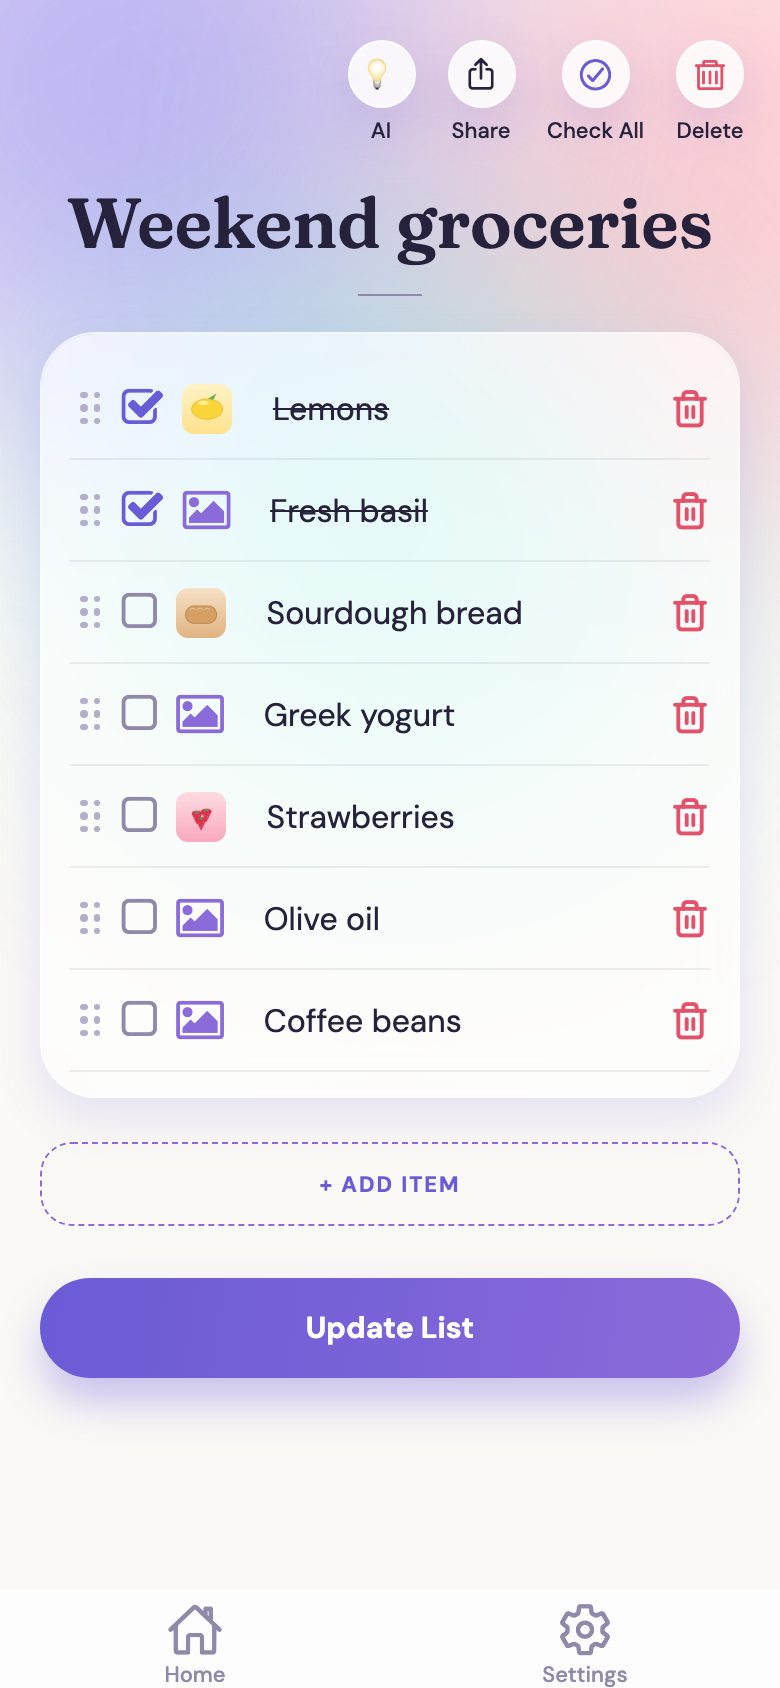
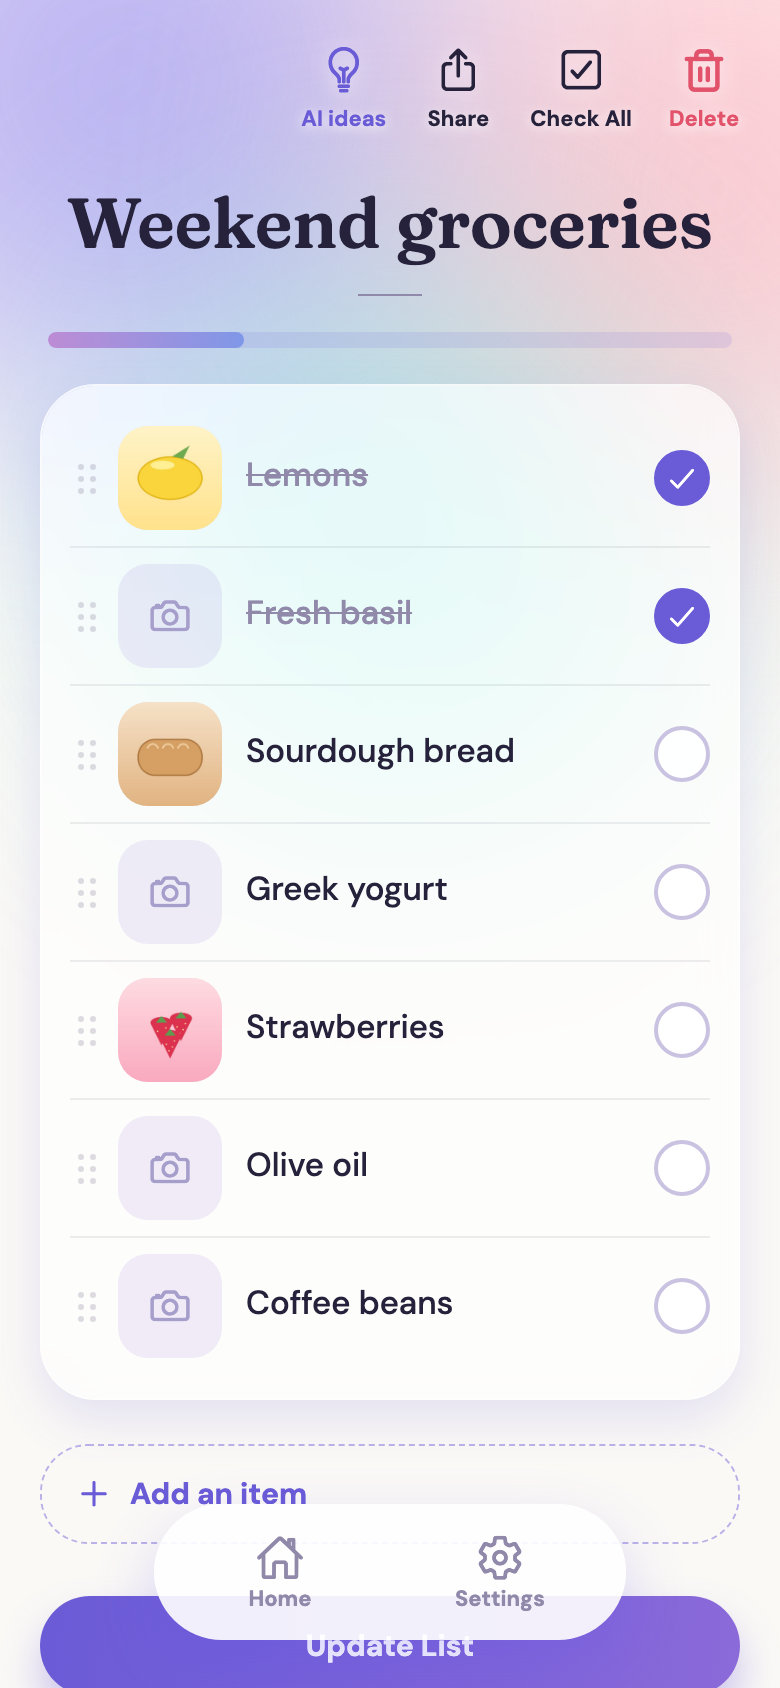
Update the README and screenshots for the refreshed list and loading design
WHY
The previous commit changed how Lista looks and behaves (photo-first rows,
a floating bottom bar, swipe to delete with Undo, pages that show only the
three dots until they are ready). The README and its screenshots still
described the old look, so they would have been wrong on the public page.

WHAT CHANGED
- README.md and docs/features.md: the feature table and the Lista 1 /
  Lista 2 comparison now say that Logout lives only in Settings, that every
  list has a progress bar, that one item is deleted with a swipe and an
  Undo message (on a computer: trackpad swipe or the trash on hover), that
  pages show the three dots until they are ready and offer Try again when
  they cannot load, and that rows put the photo first with the checkbox on
  the right. Each row keeps its Lista 1 / improved / new label.
- docs/design-and-messages.md and docs/architecture.md: the new
  components (PageLoader, FloatingTabBar, SwipeRow, AutoGrowInput) and the
  background thumbnails are described.
- docs/screenshots: retaken from the production build with local demo data
  (home, list, AI ideas, sharing, picture viewer, settings, desktop view),
  plus two new ones for swiping a row and the Undo message. An unused one
  was not kept.

CHECKS RUN
- Every relative link and image in the README and the docs pages resolves.
- Every screenshot in docs/screenshots is used by the documentation.
- This commit changes only README.md, files under docs/ (no code).

diff --git a/docs/features.md b/docs/features.md
@@ -11,11 +11,13 @@
 | ✍ | **Create and save lists** | ✅ | A title and as many items as you like, saved to your account |
 | ☑ | **Tick items off** | ✅ | Mark items as done |
 | ☑ | **Check All / Uncheck All** | 🆕 | Tick or clear a whole list in one tap, so a list is easy to reuse |
-| 🏠 | **Home with your lists** | ✅ | Your lists, a "Hello, <username>" greeting and a Logout button |
-| 📊 | **Progress on every list** | 🆕 | A badge (`2/7`) and a colored bar on each list card |
-| 🗑 | **Update and delete lists** | ⬆ | Deleted lists are only hidden. Now Lista asks first and warns when the list is shared |
+| 🏠 | **Home with your lists** | 🔁 | Your lists and a "Hello, <username>" greeting. Logout now lives in Settings only |
+| 📊 | **Progress on every list** | 🆕 | A badge (`2/7`) and a colored bar on each Home card, and a progress bar at the top of every list |
+| 🗑 | **Update and delete lists** | ⬆ | Deleted lists are only hidden. Now Lista asks first and warns when the list is shared. Deleting one item is a swipe, with Undo |
 | 🖼 | **Pictures on any row** | ⬆ | Attach a picture and open it. Now with swipe, replace and remove, safe all-or-nothing saving, and photos shrunk before upload |
-| ↕ | **Drag rows into order** | 🆕 | Six-dot handle; the row's picture moves with it. Press Enter to add a row |
+| ↕ | **Drag rows into order** | 🆕 | A faint six-dot handle; the row's picture moves with it. Press Enter to add a row |
+| 👈 | **Swipe a row to delete it, with Undo** | 🆕 | Swipe left and tap Delete; "Item deleted · Undo" brings it back, with its picture, for 5 seconds. On a computer: trackpad swipe or the trash that appears on hover |
+| ⏳ | **A page appears only when it is ready** | 🆕 | Three dots while a page loads, then the complete page; if it cannot load, a clear message and Try again |
 | 🤝 | **Share with permissions** | ⬆ | Read-Only or Full Access. Now several people at once, grouped by permission, enforced by the server, with truly view-only lists |
 | 💡 | **AI ideas** | ⬆ | Suggestions for your list. Now from Google Gemini, with tick-and-add, "New ideas" and friendly error states |
 | 🎨 | **Backgrounds** | ⬆ | Photos saved per person. Now also gradients and your own picture, on every page after you log in and scaled to any screen |
@@ -26,7 +28,7 @@
 | 📱 | **Phone, tablet and desktop** | ⬆ | Adapts to every size, including landscape and iPhone, and can be added to the home screen with its own icon |
 | 💬 | **Messages after every action** | ⬆ | Short, specific messages that say what happened and what to do next |
 | 🫙 | **Empty-list messages** | 🆕 | A friendly "No items yet" on Home, in the list and in the AI box |
-| ✨ | **Look and feel** | 🆕 | A complete redesign: soft gradients, frosted-glass cards and a gentle loading animation |
+| ✨ | **Look and feel** | 🆕 | A complete redesign: soft gradients, frosted-glass cards, photo-first rows and a floating bottom bar |
 
 ## Lista 1 compared with Lista 2
 
@@ -36,10 +38,15 @@ Lista 2 keeps all of that and improves how it looks, feels and behaves.
 | Area | Lista 1 | Lista 2 |
 |------|---------|---------|
 | **Look and feel** | Simple screens | A complete redesign: soft gradients, frosted-glass cards, elegant typography and a gentle loading animation |
-| **Home** | Each list shows its title and its first items | Cards with a progress badge and bar for every list |
+| **Home** | Each list shows its title and its first items; a Logout button beside the greeting | Cards with a progress badge and bar for every list; Logout only in Settings |
+| **Loading** | A small loader on an empty page, then everything pops in | Only the three dots until the whole page is ready, then the complete page; a clear message and **Try again** if it cannot load |
+| **List rows** | Handle, checkbox and trash on every row, text in one line that could slide sideways | Photo first, text that wraps inside the row, the checkbox on the right, a faint handle, all in one soft card; a progress bar on top |
+| **Deleting one item** | A trash button on every row | **Swipe left** and tap Delete, with an **Undo** message for 5 seconds (no question asked); on a computer, a two-finger swipe or the trash on hover |
+| **Bottom bar** | A full-width white strip | A floating pill with a soft highlight on the current tab |
+| **Text fields** | The browser's blue box when focused | A soft violet frame with a faint halo |
 | **Ticking items** | Tick one by one | Also **Check All / Uncheck All** |
 | **Pictures** | Attach a picture and view it larger | A viewer with swipe, replace and remove; pictures saved together with the list in one safe step; large photos shrunk before upload; a row can hold just a picture |
-| **Arranging rows** | Type in order | **Drag rows** by a handle, or press Enter to add a row |
+| **Arranging rows** | Type in order | **Drag rows** by a faint handle, or press Enter to add a row |
 | **Sharing** | One email at a time | **Several people at once**, grouped by permission, with clear messages for people who are not on Lista yet; Read-Only lists are truly view-only |
 | **Deleting** | Deleted straight away | Asks first, and warns when the list is shared |
 | **Messages** | General notices | Short, specific messages after every action that say what happened and what to do next |
@@ -56,13 +63,15 @@ Lista 2 keeps all of that and improves how it looks, feels and behaves.
 ### ✍ Create, save and reuse your lists
 - Make a list in seconds: a title and as many items as you like. Everything is saved to your account, so your lists are there on every device.  
 - **Tick items off** as you go, or use **Check All / Uncheck All**. Uncheck everything to reuse a list next week.  
-- **Home shows progress at a glance**: every list is a card with a badge (`2/7`) and a colored bar.  
+- **Progress at a glance**: every list on Home is a card with a badge (`2/7`) and a colored bar, and every list has a progress bar at the top.  
 - **Pictures**: attach a picture to any row. Tap it to open the viewer: swipe between pictures, replace or remove one.  
-- **Organize by dragging**: pick a row up by its six-dot handle and drop it where it belongs; its picture moves with it. Press **Enter** to add a row right below.  
-- **Delete safely**: Lista asks first, and warns when the list is shared. Deleted lists are hidden, never erased.
+- **Organize by dragging**: pick a row up by its faint six-dot handle and drop it where it belongs; its picture moves with it. Press **Enter** to add a row right below. Long text wraps inside its row.  
+- **Delete safely**: deleting a whole list asks first and warns when it is shared (lists are hidden, never erased). Deleting one item is a swipe to the left, followed by **Undo** for 5 seconds; nothing is saved until you press **Update List**.  
 
 <p align="center">
-  <img src="screenshots/edit-list.png" width="240" alt="Editing a list: ticks, pictures and drag handles">
+  <img src="screenshots/edit-list.png" width="240" alt="Editing a list: photos first, checkboxes on the right, progress bar">
+  <img src="screenshots/swipe-delete.png" width="240" alt="Swiping a row to delete it">
+  <img src="screenshots/undo.png" width="240" alt="Item deleted, with Undo">
   <img src="screenshots/image-viewer.png" width="240" alt="The picture viewer">
 </p>
 

diff --git a/README.md b/README.md
@@ -22,7 +22,7 @@
 
 <p align="center">
   <img src="docs/screenshots/home.png" width="190" alt="Home with progress on every list">
-  <img src="docs/screenshots/edit-list.png" width="190" alt="A list with pictures and drag handles">
+  <img src="docs/screenshots/edit-list.png" width="190" alt="A list with photos first, checkboxes on the right and a progress bar">
   <img src="docs/screenshots/ai-ideas.png" width="190" alt="AI ideas you can tick and add">
   <img src="docs/screenshots/share.png" width="190" alt="Sharing with permissions">
 </p>
@@ -42,7 +42,7 @@ A list takes seconds. Come back to it any time, uncheck everything and use it ag
 <td width="33%" valign="top">
 
 ### 🗂 Organize
-Tick items off, drag rows into order, add pictures, and see progress on Home.
+Tick items off, swipe a row to delete it (with Undo), drag rows into order, add pictures, and watch the progress bar.
 
 </td>
 <td width="33%" valign="top">
@@ -85,11 +85,13 @@ Phone, tablet and desktop. Add it to your home screen.
 | ✍ | **Create and save lists** | ✅ | A title and as many items as you like, saved to your account |
 | ☑ | **Tick items off** | ✅ | Mark items as done |
 | ☑ | **Check All / Uncheck All** | 🆕 | Tick or clear a whole list in one tap, so a list is easy to reuse |
-| 🏠 | **Home with your lists** | ✅ | Your lists, a "Hello, <username>" greeting and a Logout button |
-| 📊 | **Progress on every list** | 🆕 | A badge (`2/7`) and a colored bar on each list card |
-| 🗑 | **Update and delete lists** | ⬆ | Deleted lists are only hidden. Now Lista asks first and warns when the list is shared |
+| 🏠 | **Home with your lists** | 🔁 | Your lists and a "Hello, <username>" greeting. Logout now lives in Settings only |
+| 📊 | **Progress on every list** | 🆕 | A badge (`2/7`) and a colored bar on each Home card, and a progress bar at the top of every list |
+| 🗑 | **Update and delete lists** | ⬆ | Deleted lists are only hidden. Now Lista asks first and warns when the list is shared. Deleting one item is a swipe, with Undo |
 | 🖼 | **Pictures on any row** | ⬆ | Attach a picture and open it. Now with swipe, replace and remove, safe all-or-nothing saving, and photos shrunk before upload |
-| ↕ | **Drag rows into order** | 🆕 | Six-dot handle; the row's picture moves with it. Press Enter to add a row |
+| ↕ | **Drag rows into order** | 🆕 | A faint six-dot handle; the row's picture moves with it. Press Enter to add a row |
+| 👈 | **Swipe a row to delete it, with Undo** | 🆕 | Swipe left and tap Delete; "Item deleted · Undo" brings it back, with its picture, for 5 seconds. On a computer: trackpad swipe or the trash that appears on hover |
+| ⏳ | **A page appears only when it is ready** | 🆕 | Three dots while a page loads, then the complete page; if it cannot load, a clear message and Try again |
 | 🤝 | **Share with permissions** | ⬆ | Read-Only or Full Access. Now several people at once, grouped by permission, enforced by the server, with truly view-only lists |
 | 💡 | **AI ideas** | ⬆ | Suggestions for your list. Now from Google Gemini, with tick-and-add, "New ideas" and friendly error states |
 | 🎨 | **Backgrounds** | ⬆ | Photos saved per person. Now also gradients and your own picture, on every page after you log in and scaled to any screen |
@@ -100,7 +102,7 @@ Phone, tablet and desktop. Add it to your home screen.
 | 📱 | **Phone, tablet and desktop** | ⬆ | Adapts to every size, including landscape and iPhone, and can be added to the home screen with its own icon |
 | 💬 | **Messages after every action** | ⬆ | Short, specific messages that say what happened and what to do next |
 | 🫙 | **Empty-list messages** | 🆕 | A friendly "No items yet" on Home, in the list and in the AI box |
-| ✨ | **Look and feel** | 🆕 | A complete redesign: soft gradients, frosted-glass cards and a gentle loading animation |
+| ✨ | **Look and feel** | 🆕 | A complete redesign: soft gradients, frosted-glass cards, photo-first rows and a floating bottom bar |
 
 More detail, including everything Lista 1 offered, is in the [feature guide](docs/features.md).
 
@@ -110,8 +112,9 @@ More detail, including everything Lista 1 offered, is in the [feature guide](doc
 
 Lista 1 already offered lists, pictures, sharing, backgrounds, AI ideas and password reset. Lista 2 keeps all of that and:
 
-- gives the whole app a **complete redesign**, with progress on every list
-- adds **drag-to-reorder**, **Check All / Uncheck All** and friendly empty-list messages
+- gives the whole app a **complete redesign**: photo-first rows, a floating bottom bar and progress on every list
+- adds **drag-to-reorder**, **swipe to delete with Undo**, **Check All / Uncheck All** and friendly empty-list messages
+- shows **only the three dots until a page is ready**, then the complete page (and Try again if it cannot load)
 - makes pictures **safer and easier** (viewer, all-or-nothing saving)
 - lets you **share with several people at once** and keeps view-only lists truly view-only
 - moves AI ideas to **Google Gemini** and lets you tick and add them

diff --git a/docs/design-and-messages.md b/docs/design-and-messages.md
@@ -10,11 +10,13 @@ and nothing in the app should make you wonder what just happened.
 - **One visual language everywhere**: every page and every pop-up uses the same masthead-style title with a thin rule underneath, 
   the same rounded cards and the same gradient buttons.
 - **Your own background**: choose a photo, a gradient or your own picture in Settings, and it applies to every screen.
-- **Gentle loading**: a three-dot *Aurora Dots* animation instead of a blank screen.
+- **Gentle loading**: a page shows only the three-dot *Aurora Dots* animation until everything it needs has arrived, then appears complete. If it cannot load, it says so and offers **Try again**.
 
 ### 🧭 Easy to Understand at a Glance
 - **Home shows progress, not paperwork**: each list is a card with a progress badge (`2/5`) and a colored bar, so you see what is done without opening anything.
-- **Few buttons, clear icons**: AI, Share, Check All and Delete sit in one row above the list; everything else is on the page itself.
+- **Few buttons, clear icons**: AI ideas, Share, Check All and Delete sit together at the top right of a list, directly on the page (no circles behind them); everything else is on the page itself.
+- **A floating bottom bar**: Home and Settings sit in a white pill that floats above the content.
+- **Quiet rows**: a photo or camera tile first, the text, and the checkbox on the right, in one soft card with thin dividers; the drag handle is very faint.
 - **Checked items look checked**: struck through, with no raw symbols.
 
 ### 💬 Clear Feedback After Every Action
@@ -38,7 +40,9 @@ Lista uses a small, consistent design system so every screen feels like one prod
   - `GlassCard` - frosted glass surfaces for cards and boxes.  
   - `PrimaryButton` - gradient button with loading and disabled states.  
   - `AuroraBackground` / `AppBackground` - the soft gradient backdrop and the user's chosen background.  
-  - `AuroraDotsLoader` - the three-dot loading animation.  
+  - `AuroraDotsLoader` - the three-dot loading animation; `PageLoader` and `PageLoadError` show it for a whole page, or a message with Try again.  
+  - `FloatingTabBar` - the floating Home / Settings bar.  
+  - `SwipeRow` - a row that slides left to reveal Delete; `AutoGrowInput` - a text field that wraps and grows.  
   - `ToastConfig` - custom gradient "wash" cards for success and error toasts.  
 - **Masthead style**: a serif title with a short rule underneath, used on every page and every pop-up box.
 

diff --git a/docs/architecture.md b/docs/architecture.md
@@ -35,8 +35,9 @@ Lista is split into three parts that each do one job:
 
 ```
 app/                 screens (Login, Register, Home, ListItemDetails, Settings, ...)
-components/          GlassCard, PrimaryButton, AppBackground, AuroraBackground, AuroraDotsLoader, ToastConfig, ...
-constants/           theme.ts (design tokens), config.ts (backend address), backgrounds
+components/          GlassCard, PrimaryButton, AppBackground, AuroraBackground, AuroraDotsLoader, PageLoader,
+                     FloatingTabBar, SwipeRow, AutoGrowInput, ToastConfig, ...
+constants/           theme.ts (design tokens), config.ts (backend address), backgrounds and their thumbnails
 utils/               authSession.ts (session renewal), describeError.ts (error messages),
                      countItems.ts (the item-counting rule), resizeImage.ts (shrinks photos before upload)
 public/              icons, web manifest and the web page template
